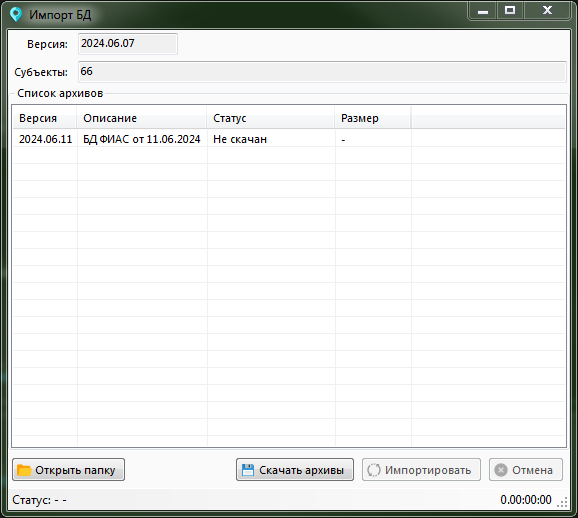
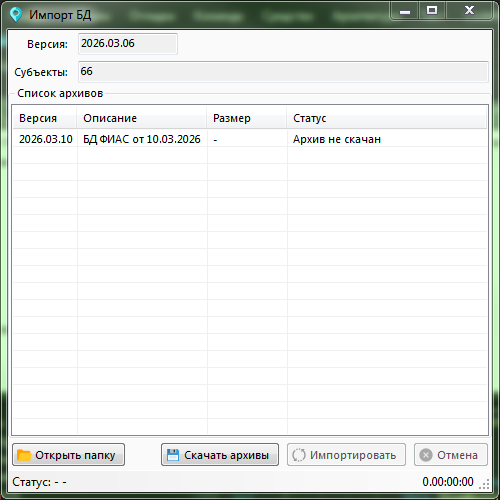
chore(docs): обновил документацию

Changed region(s): [[0.0, 0.0, 1.0, 1.0]]

diff --git a/docs/fias-update/usage.md b/docs/fias-update/usage.md
@@ -14,7 +14,8 @@ description: "Импорт данных в БД FIAS_GAR"
 
 1. Запустить FIASUpdate
 2. Настроить соединение с БД **FIAS_GAR**
-3. Указать в настройках каталог для хранения данных (**`<path>`**) и снять выбор с ненужных таблиц
+3. Выбрать субъекты РФ для импорта
+4. Указать в настройках каталог для хранения данных (**`<path>`**) и снять выбор с ненужных таблиц
 
 ## Импорт полной копии БД
 
@@ -22,12 +23,12 @@ description: "Импорт данных в БД FIAS_GAR"
 Рекомендуется использовать менеджер загрузок для скачивания архива, например [Free Download Manager](https://www.freedownloadmanager.org/ru/) или что-то подобное.
 
 1. Скачать архив с сайта ФИАС
-2. Распаковать нужные субъекты и файлы из корня архива в **`<path>\gar_xml\`**
-3. Запустить FIASUpdate
-4. Нажать `Импорт полной копии БД`
+2. Запустить FIASUpdate
+3. Нажать `Импорт полной копии БД`
+4. Выбрать файл архива (Можно переташить на текстовое поле)
 5. Нажать `Импортировать` и дождаться завершения импорта
 
-![import](../assets/fias/import.png)
+![import](../assets/fias/import-full.png)
 
 ## Импорт разностных копий БД
 

diff --git a/README.md b/README.md
@@ -22,7 +22,7 @@
 ![Основная форма](/docs/assets/fias/main.png)
 ![Форма настроек](/docs/assets/fias/settings.png)
 ![Форма импорта](/docs/assets/fias/import-delta.png)
-![Форма импорта](/docs/assets/fias/import.png)
+![Форма импорта](/docs/assets/fias/import-full.png)
 ![Форма поиска адреса в БД](/docs/assets/fias/search.png)
 
 *P.S. Данное решение предназначено для разработчик работающих с .NET и SQL Server.*  
